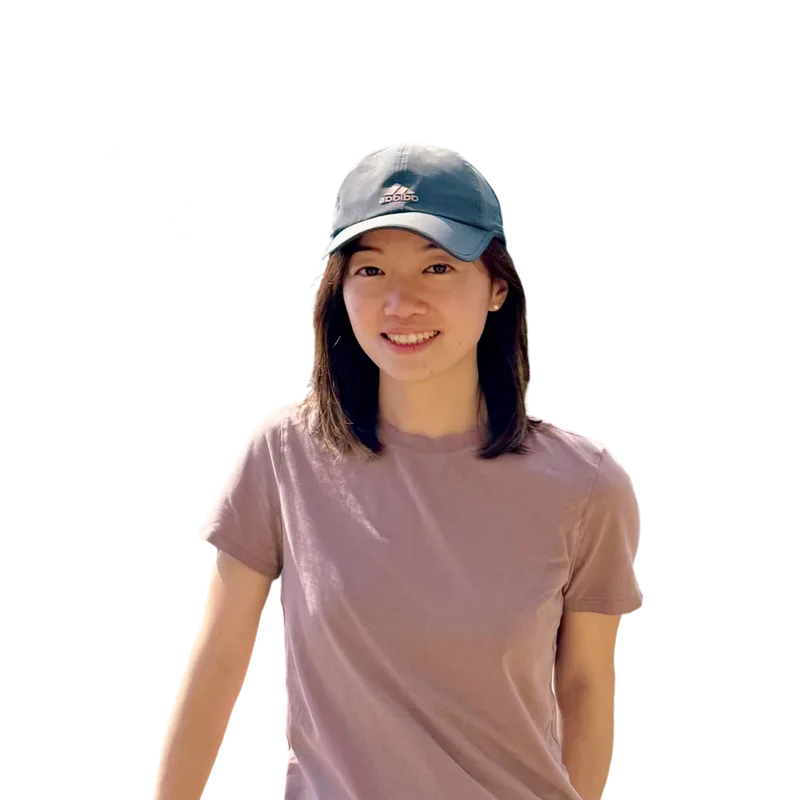
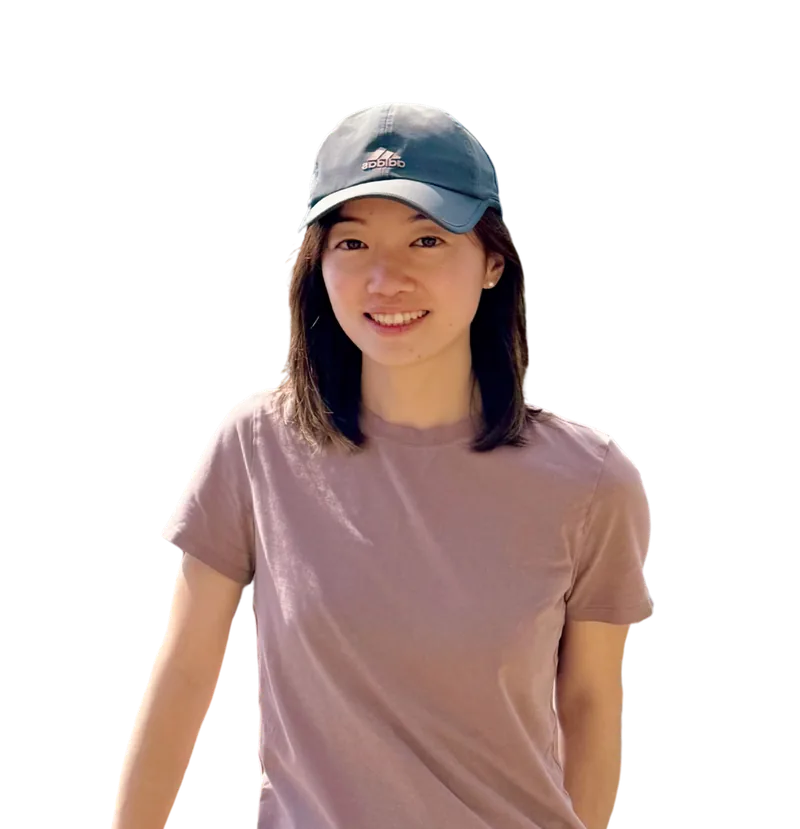
Update hero portrait and align it to the right edge of the content
Swap in the new portrait, pin it flush right, and widen the headline
(with explicit one-phrase-per-line breaks on wide screens) so the gap
between the copy and the photo stays small.

diff --git a/src/components/Hero/Hero.less b/src/components/Hero/Hero.less
@@ -11,13 +11,11 @@
   --hero-title-weight: @{weight-semibold};
   --hero-lede-size: clamp(@text-base, 0.75rem + 1vw, 1.25rem); // 16px → 20px
 
-  // Copy on the left, portrait centred in the space that's left over on
-  // the right (so the gaps either side of it match); the photo moves above
-  // the text on narrow screens.
+  // Copy on the left, portrait flush with the right edge of the page
+  // content; the photo moves above the text on narrow screens.
   display: grid;
-  // Copy column hugs the headline (scales with its font size) so the space
-  // beside the photo is measured from where the text visibly ends.
-  grid-template-columns: fit-content(calc(var(--hero-title-size) * 11.5)) minmax(0, 1fr);
+  grid-template-columns: minmax(0, 1fr) auto;
+  column-gap: @space-6;
   align-items: center;
 
   @media (max-width: @bp-hero-stack) {
@@ -32,8 +30,7 @@
   aspect-ratio: 1;
   object-fit: cover;
   border-radius: @radius-photo;
-  justify-self: center;
-  margin-inline: @space-4; // minimum breathing room each side when space is tight
+  justify-self: end;
   // The portrait is a transparent cutout; the tonal card gives the rounded
   // corners something to show.
   background: var(--tonal);
@@ -41,7 +38,6 @@
   @media (max-width: @bp-hero-stack) {
     grid-row: 1;
     justify-self: start;
-    margin-inline: 0;
     width: 120px;
   }
 }
@@ -65,6 +61,13 @@
   line-height: var(--hero-title-leading);
   max-width: 26ch;
   text-wrap: balance;
+
+  // Wide enough for the copy's own line breaks (one phrase per line); below
+  // this the breaks collapse to spaces and the headline wraps naturally.
+  @media (min-width: 60em) {
+    max-width: none;
+    white-space: pre-line;
+  }
 }
 
 // Typed words share the eyebrow's line on wider screens; on phones they

diff --git a/src/model/content.ts b/src/model/content.ts
@@ -35,7 +35,7 @@ export const content: PortfolioContent = {
       words: ["builder", "systems thinker", "strategist"],
     },
     headline:
-      "I turn ambiguity into direction—and direction into intuitive, scalable products.",
+      "I turn ambiguity into direction—\nand direction into intuitive,\nscalable products.",
     photo: { src: PHOTO_URL, alt: "Portrait of Jiaqi Zhuo" },
     lede: [
       "I shape what's worth building in ",

diff --git a/src/components/Hero/Hero.tsx b/src/components/Hero/Hero.tsx
@@ -92,7 +92,7 @@ export function Hero({
         src={photo.src}
         alt={photo.alt}
         width={800}
-        height={800}
+        height={829}
         decoding="async"
       />
     </section>
